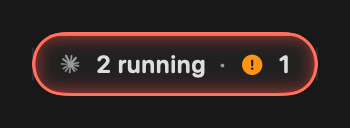
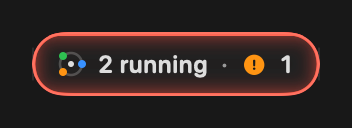
Limbo Tasks: the Orbit mark in the window header and pill
The keep-on-top window's header and its pill showed the Claude mark; they
now show Limbo's own mark, the Orbit logo without its square: dots in the
running, needs-you and finished colours around a centre dot on a faint
orbit, drawn in SwiftUI from the window's palette, so it follows light
mode and Increase Contrast. The menu bar keeps the turning Claude mark.
The README screenshots that show the header are re-rendered.

diff --git a/tasks/main.swift b/tasks/main.swift
@@ -2003,6 +2003,33 @@ struct TagPills: View {
     }
 }
 
+/// Limbo's mark, the Orbit logo without its square: sessions in the three
+/// state colours (running, needs you, finished) around a centre dot, on a
+/// faint orbit. The keep-on-top window's header and pill show it.
+struct LimboMark: View {
+    var size: CGFloat = 16
+    @Environment(\.colorScheme) private var scheme
+    @Environment(\.highContrast) private var contrast
+
+    var body: some View {
+        let p = Palette(scheme, contrast: contrast)
+        let r = size * 0.37                 // the orbit's radius
+        let d = size * 0.27                 // a session dot
+        let corner = r * 0.7071             // 135° and 225°: bottom left, top left
+        ZStack {
+            Circle()
+                .stroke(Color.primary.opacity(contrast ? 0.5 : 0.25), lineWidth: max(1, size * 0.085))
+                .frame(width: r * 2, height: r * 2)
+            Circle().fill(p.running).frame(width: d, height: d).offset(x: r)
+            Circle().fill(p.needsYou).frame(width: d, height: d).offset(x: -corner, y: corner)
+            Circle().fill(p.done).frame(width: d, height: d).offset(x: -corner, y: -corner)
+            Circle().fill(Color.primary).frame(width: size * 0.2, height: size * 0.2)
+        }
+        .frame(width: size, height: size)
+        .accessibilityHidden(true)
+    }
+}
+
 /// One mark per state, told apart by shape as well as colour: a turning ring
 /// (running), an hourglass (running but quiet), an exclamation (needs you),
 /// an eye (ready for review), a check (finished), a ring (idle terminal).
@@ -3210,11 +3237,7 @@ struct FloatingView: View {
 
     private func header(_ list: FloatingRows, filter active: RowFilter?) -> some View {
         HStack(spacing: 6) {
-            Image(nsImage: claudeMark)
-                .renderingMode(.template)
-                .resizable()
-                .frame(width: 15, height: 15)
-                .foregroundStyle(.secondary)
+            LimboMark(size: 16)
             // Full chips when they fit, then compact ones (mark and number),
             // then a check for Got it, then only the chosen filter's chip: the
             // header never grows past the window.
@@ -3406,11 +3429,7 @@ struct FloatingView: View {
                 Image(systemName: "checkmark").font(.system(size: 10, weight: .bold)).foregroundStyle(p.done)
                 Text("All finished")
             } else {
-                Image(nsImage: claudeMark)
-                    .renderingMode(.template)
-                    .resizable()
-                    .frame(width: 14, height: 14)
-                    .foregroundStyle(.secondary)
+                LimboMark(size: 15)
                 if running == 0 && waiting == 0 { Text("All caught up").foregroundStyle(p.time) }
                 if running > 0 { Text("\(running) running") }
                 if running > 0 && waiting > 0 { Text("·").foregroundStyle(p.time) }
